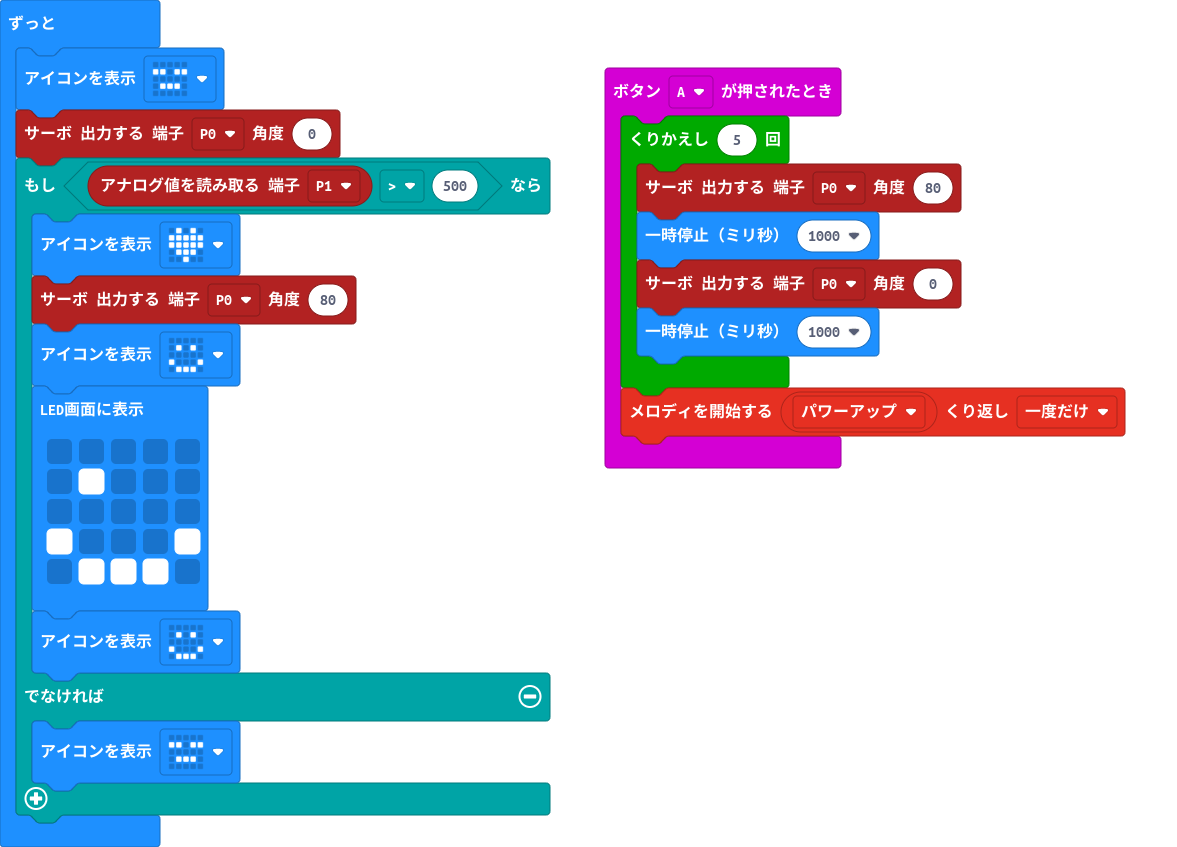
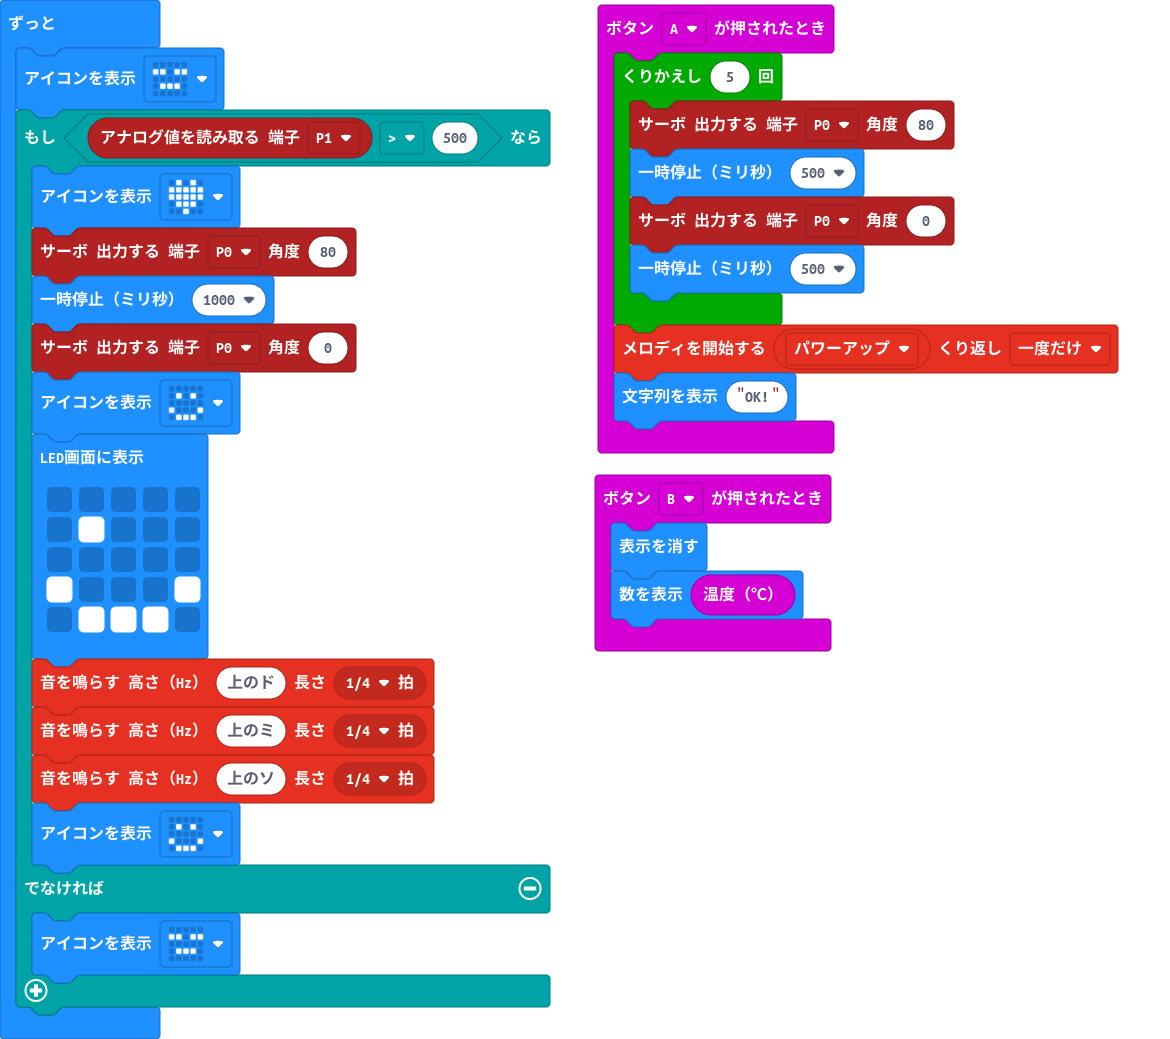
更新 main.blocks, main.ts

diff --git a/main.ts b/main.ts
@@ -1,18 +1,24 @@
 input.onButtonPressed(Button.A, function () {
     for (let index = 0; index < 5; index++) {
         pins.servoWritePin(AnalogPin.P0, 80)
-        basic.pause(1000)
+        basic.pause(500)
         pins.servoWritePin(AnalogPin.P0, 0)
-        basic.pause(1000)
+        basic.pause(500)
     }
     music.startMelody(music.builtInMelody(Melodies.PowerUp), MelodyOptions.Once)
+    basic.showString("OK!")
+})
+input.onButtonPressed(Button.B, function () {
+    basic.clearScreen()
+    basic.showNumber(input.temperature())
 })
 basic.forever(function () {
     basic.showIcon(IconNames.Asleep)
-    pins.servoWritePin(AnalogPin.P0, 0)
     if (pins.analogReadPin(AnalogPin.P1) > 500) {
         basic.showIcon(IconNames.Heart)
         pins.servoWritePin(AnalogPin.P0, 80)
+        basic.pause(1000)
+        pins.servoWritePin(AnalogPin.P0, 0)
         basic.showIcon(IconNames.Happy)
         basic.showLeds(`
             . . . . .
@@ -21,6 +27,9 @@ basic.forever(function () {
             # . . . #
             . # # # .
             `)
+        music.playTone(523, music.beat(BeatFraction.Quarter))
+        music.playTone(659, music.beat(BeatFraction.Quarter))
+        music.playTone(784, music.beat(BeatFraction.Quarter))
         basic.showIcon(IconNames.Happy)
     } else {
         basic.showIcon(IconNames.Asleep)
